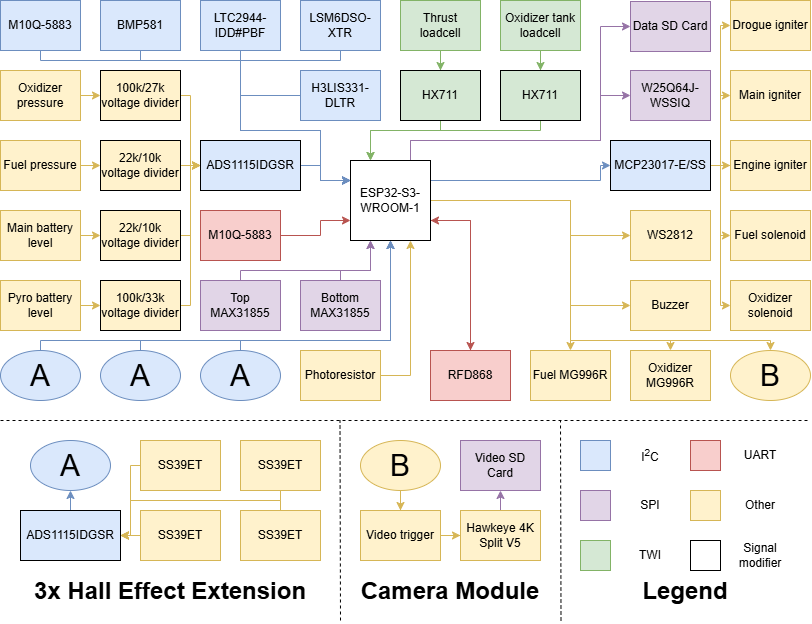
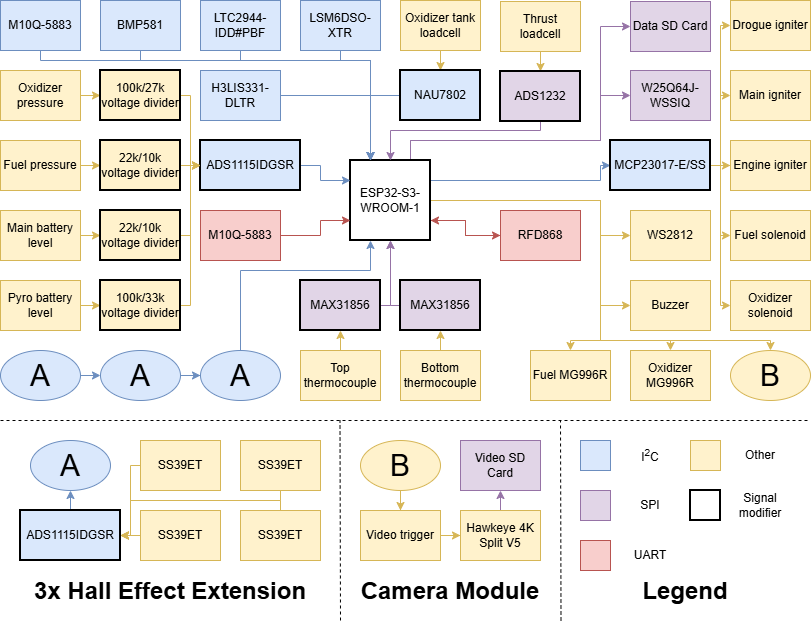
update hardware documentation

diff --git a/README.md b/README.md
@@ -27,44 +27,56 @@ The aim of the computer dashboard (computerDashboard.py) code is to:
 
 ## Hardware
 
-The .ino files will run on custom made PCBs operating on the ESP32-S3-WROOM-1(N8R8) microcontroller. The board will receive data from the following peripherals:
-* loadcell (measuring the thrust) through HX711 ADC 1
-* MH-series loadcell (measuring the weight of the oxidizer tank) through HX711 ADC 2
-* MAX31855 temperature sensor through SPI
-* MAX31855 temperature sensor through SPI
-* RFD868 radio interface through UART
-* M10Q-5883 GPS through I2C and UART
-* a photoresistor through the internal ADC
-* LTC2944IDD#PBF main battery level sensor through I2C
-* BMP581 atmospheric pressure sensor through I2C
-* LSM6DSOXTR accelerometer and gyroscope through I2C
-* H3LIS331DLTR high-G accelerometer through I2C
-* ADS1115IDGSR high-accuracy ADC, containing:
-    * the main battery level through a 100k/27k voltage divider
-    * fuel pressure through a 22k/10k voltage divider
-    * oxidizer pressure through a 22k/10k voltage divider
-    * the pyro battery level through a 100k/33k voltage divider
-* three external ADS1115IDGSR with four SS39ET Hall-Effect sensors each, used to measure the position of the piston within the tank
+The .ino files will run on custom made PCBs operating on the ESP32-S3-WROOM-1(N8R8) microcontroller. The board will receive data from the peripherals described in Table 1.
 
-It will output data to the following peripherals:
-* MG996R servo motor for fuel valve
-* MG996R servo motor for oxidizer valve
-* SD-card interface through SPI
-* W25Q64JWSSIQ flash memory through SPI
-* RFD868 radio interface through UART
-* Hawkeye 4K Split V5 video camera trigger
-* buzzer
-* WS2812 with four interfacable LEDs
-* MCP23017-E/SS serial interface through I2C, containing:
-    * the main igniter
-    * the drogue igniter
-    * the engine ignition
-    * the fuel solenoid valve
-    * the oxidizer solenoid valve
+|Name|Description|Through|Communication protocol|
+|----|----|----|----|
+|Thrust loadcell|Measures the thrust|ADS1232|SPI|
+|MH-series loadcell|Measures the weight of the oxidizer tank|NAU7802|I2C|
+|Top thermocouple|Measures the temperature at the top of the engine|MAX31856|SPI|
+|Bottom thermocouple|Measures the temperature at the bottom of the engine|MAX31856|SPI|
+|RFD868 radio interface|Enables two-way communication with the ground station|-|UART|
+|M10Q-5883 GPS|Provides geolocation data|-|I2C|
+|M10Q-5883 GPS|Provides redundant geolocation data|-|UART|
+|LTC2944IDD#PBF battery level sensor|Measures the main battery level|-|I2C|
+|BMP581 pressure sensor|Measures atmospheric pressure|-|I2C|
+|LSM6DSOXTR 6-axis IMU|Measures acceleration and angular velocity|-|I2C|
+|H3LIS331DLTR high-g accelerometer|Measures acceleration for redundancy|-|I2C|
+|Main battery voltage|Measures the voltage across the main battery|100k/27k voltage divider & ADS1115IDGSR|I2C|
+|Fuel pressure transducer|Measures the fuel pressure|22k/10k voltage divider & ADS1115IDGSR|I2C|
+|Oxidizer pressure transducer|Measures the oxidizer pressure|22k/10k voltage divider & ADS1115IDGSR|I2C|
+|Pyro battery voltage|Measures the voltage across the pyro battery|100k/33k voltage divider & ADS1115IDGSR|I2C|
+|External piston location module|Measures the location of the piston in the tank|ADS1115IDGSR|I2C|
 
-The data handling is displayed in the diagram below.
+**Table 1**: Dynamometer PCB input peripherals
+
+Where the External Hall effect sensing module will be comprised of 3 Hall effect extensions. Each extension consists of a ADS1114IDGSR ADC taking input from 4 SS39ET Hall effect sensors. The first of these is directly connected to the main PCB through I2C, with the other 2 being chained together with the first, to allow for full access to all 12 sensors. The piston moving within the tank has a magnet inside of it and the Hall effect sensors are spaced apart from eachother, spanning the length of the piston path. This allows the location of the piston to be gauged by measuring where the Hall effect is the strongest. 
+
+It will output data to the peripherals described in Table 2.
+
+|Name|Description|Through|Communication protocol|
+|----|----|----|----|
+|MG966R fuel valve servo|Opens and closes the fuel valve|-|PWM|
+|MG966R oxidizer valve servo|Opens and closes the oxidizer valve|-|PWM|
+|SD-card interface|Allows for storing long-term data|-|SPI|
+|W25Q64JWSSIQ flash memory|Allows for storing current data and buffering SD-card input|-|SPI|
+|RFD868 radio interface|Enables two-way communication with the ground station|-|UART|
+|Hawkeye 4K Split V5 camera module|Triggers the video camer to start recording|-|GPIO|
+|Huaneng QMB-09B-03 buzzer|Triggers the buzzer for easier recovery|-|GPIO|
+|WS2812 LED interface|Displays status and enables easier recovery|-|GPIO|
+|Main igniter|-|MCP23017-E/SS|I2C| 
+|Drogue igniter|-|MCP23017-E/SS|I2C| 
+|Engine igniter|-|MCP23017-E/SS|I2C| 
+|Fuel solenoid valve|Controls the flow of fuel to the engine|MCP23017-E/SS|I2C| 
+|Oxidizer solenoid valve|Controls the flow of oxidizer to the engine|MCP23017-E/SS|I2C| 
+
+**Table 2**: Dynamometer PCB output peripherals
+
+The information presented above is sumarised in the diagram in Figure 1.
 
 ![Data handling diagram](./media/dynamometerDataHandling.png "Data handling diagram")
+
+**Figure 1**: Data handling diagram for the dynamometer PCB
 
 ## Software Architecture
 
